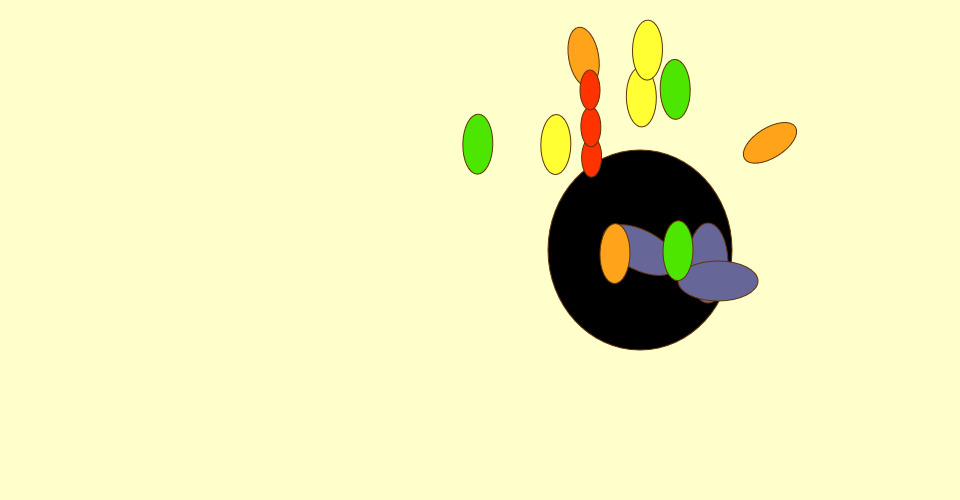
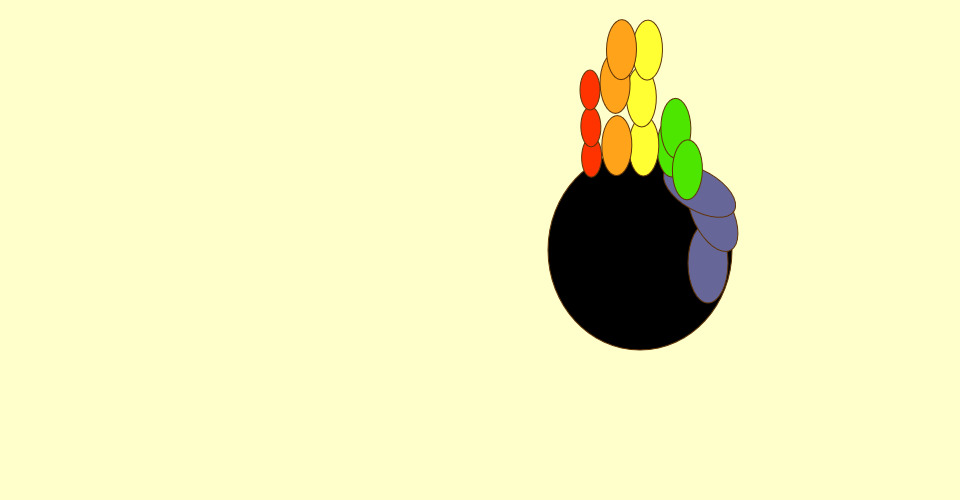
updated readme

Changed region(s): [[0.5938, 0.03, 0.8438, 0.6], [0.4688, 0.21, 0.5312, 0.36], [0.5625, 0.21, 0.5938, 0.36]]

diff --git a/P2/animation adding letters/sketch.js b/P2/animation adding letters/sketch.js
@@ -350,7 +350,8 @@ function drawFromDataObject(x, y, s, obj) {
 function draw () {
   background(colorBack);
   fill(colorFront);
-  stroke(95, 52, 8);
+ stroke(95, 52, 8);
+ //noStroke();
   var o = 40
   var w2 = width - 2 * o
   var h2 = height - 2 * o

diff --git a/P2/animation adding letters/README.md b/P2/animation adding letters/README.md
@@ -1,6 +1,7 @@
 ## PS2 MDDN 342 2016
 Phoebe Zeller 
 300309856
-This code keeps getting more and more ugly.I have butched the Tom White code to fit my needs and now the data is being read from the .Json file and the sketch is also edited by pressing the letters on the keyboard.
-
-Internal json is kept for bug fixing and creating new shapes.
+And here is the whole alphebet. If you asked me to do this project again I would not pick the same topic again. This took an absolute age, but every letter is there in american finger spelling. Its not pretty. 
+The fingers are not drawn in the correct order and there for some of the shapes are accually wrong. That said most can be understood by the user and repeated. The animation also goes crazy sometimes, but I like it. 
+The animation makes it more humorus, like a robot trying to understand a human language and failing. 
+I admit there could be a lot of approvements, but I like it still and it was a good exercise.
